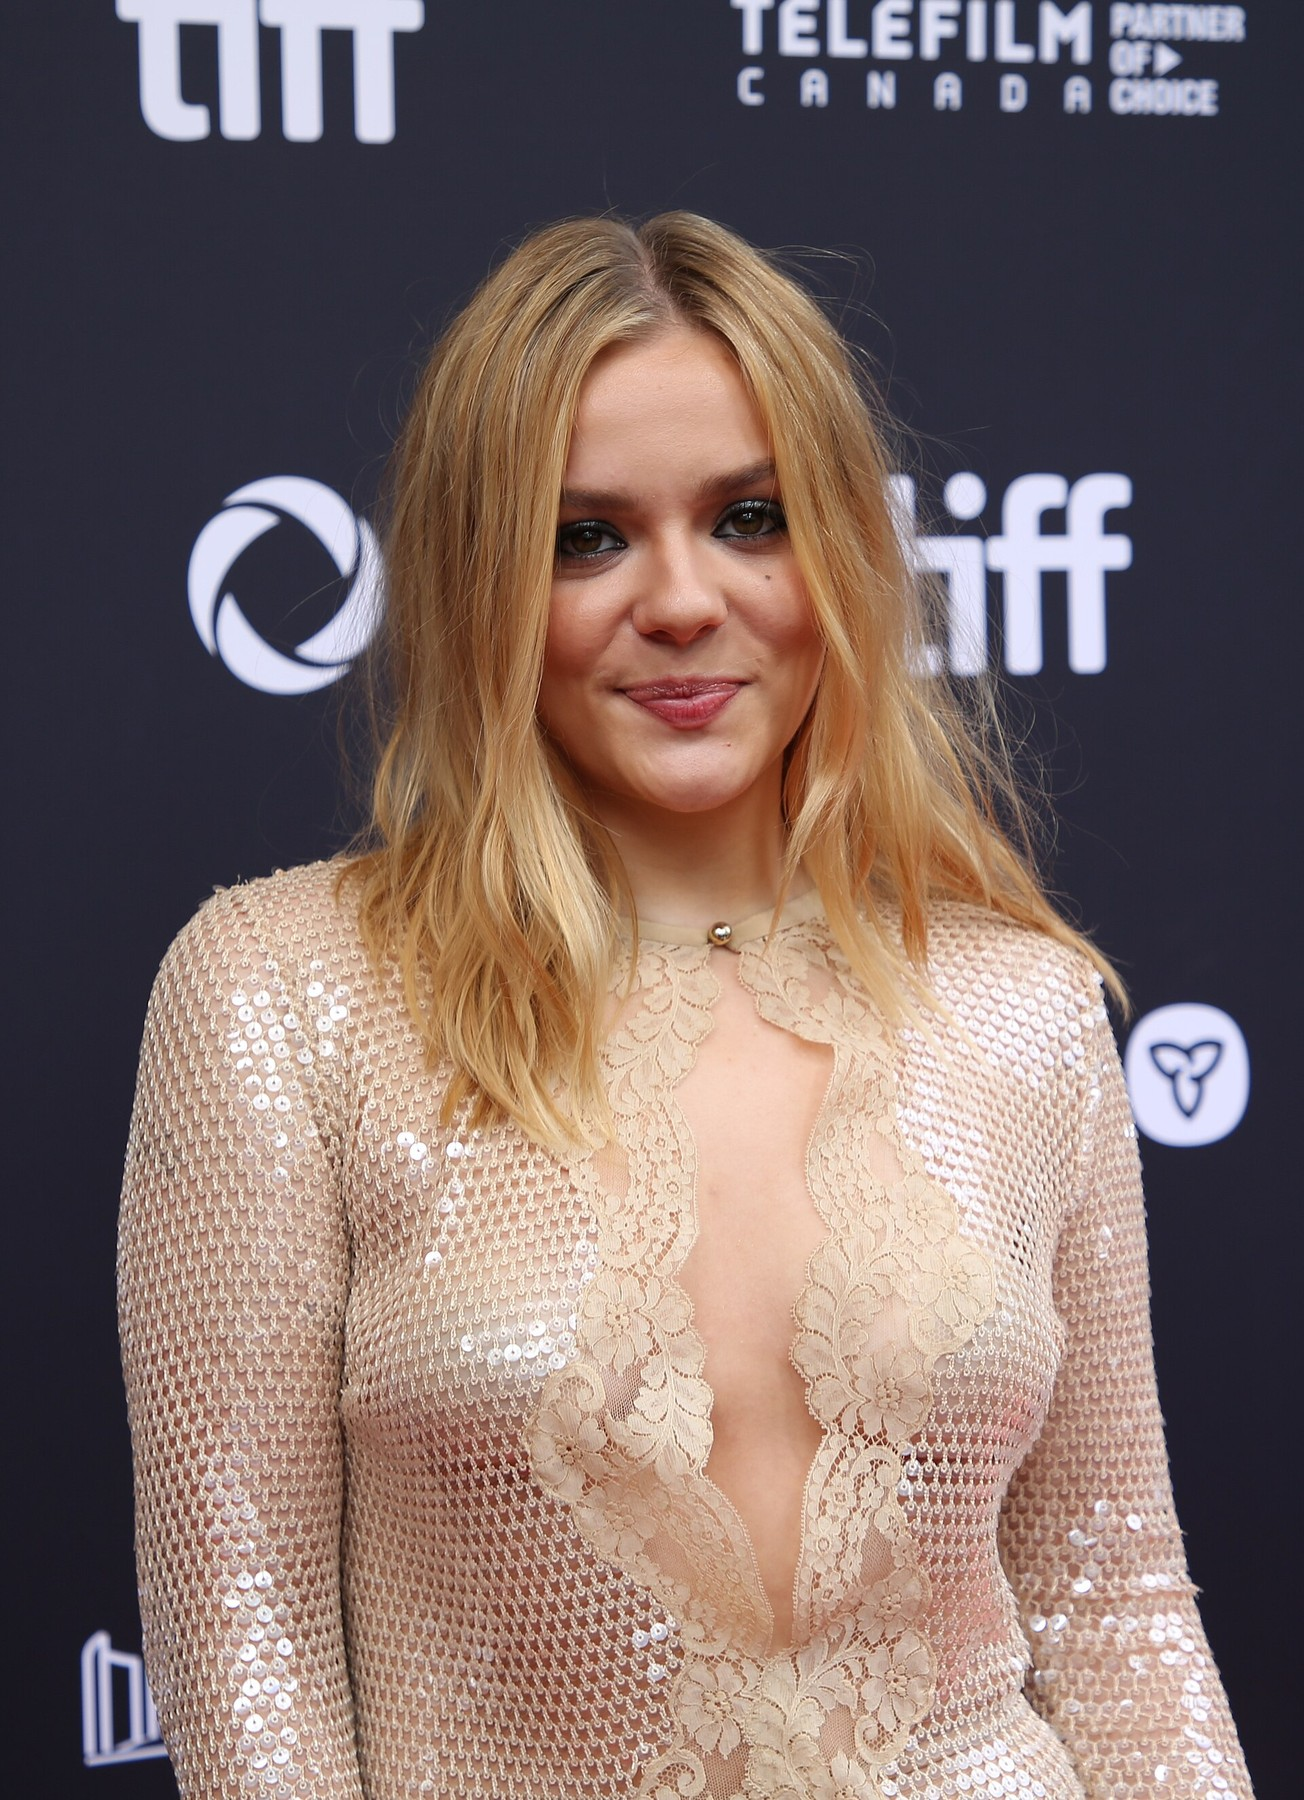
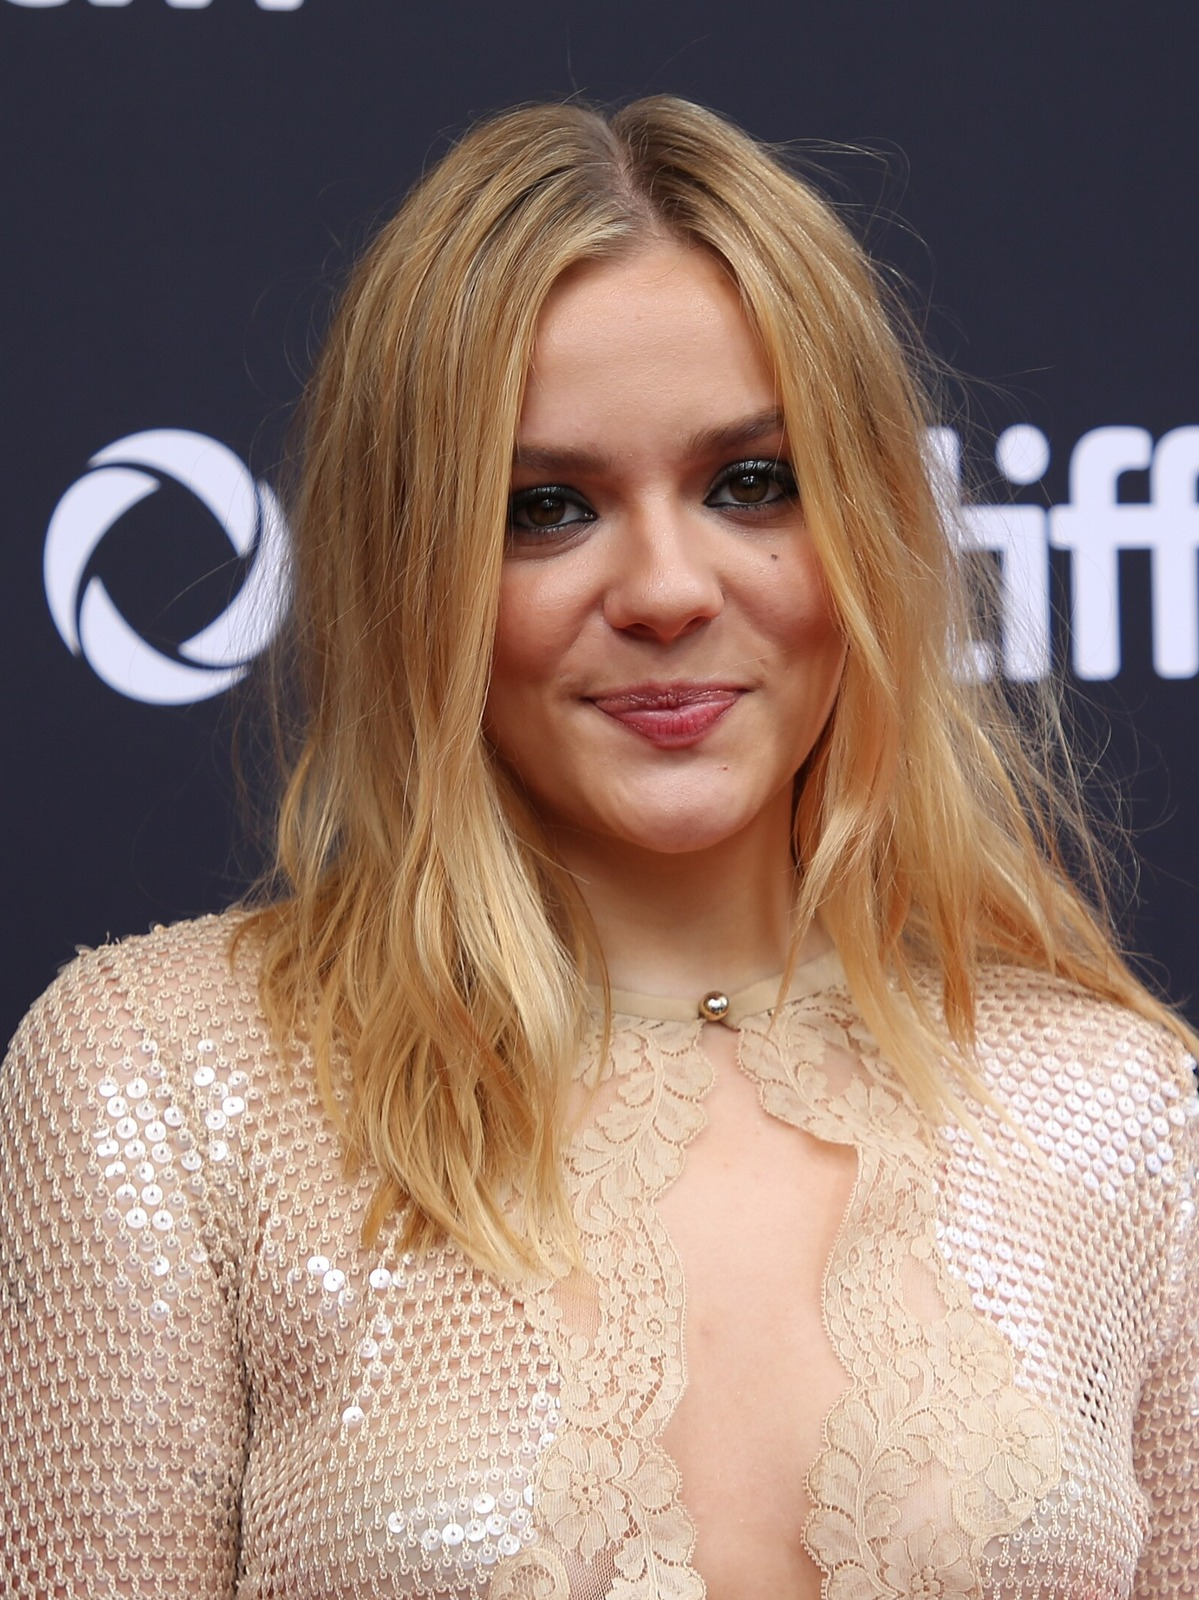
Affine le cadrage People et remplace Ana / Maisy / Rosamund
Ajuste object-position des heroes et cartes, portrait Ana TIFF 2024,
Maisy TIFF croppedv2, et Rosamund Berlinale net pour la grille People.

diff --git a/template/css/site.css b/template/css/site.css
@@ -323,7 +323,7 @@ body.nav-open .site-menu { opacity: 1; pointer-events: auto; }
   width: 100%;
   height: 100%;
   object-fit: cover;
-  object-position: center 20%;
+  object-position: center 28%;
   transition: transform 0.9s var(--ease);
 }
 .card:hover .card__media img { transform: scale(1.06); }
@@ -553,7 +553,7 @@ body.nav-open .site-menu { opacity: 1; pointer-events: auto; }
 .contact-links a { width: fit-content; border-bottom: 1px solid var(--line); padding-bottom: 0.15rem; }
 
 .person-hero {
-  min-height: 75svh;
+  min-height: 70svh;
   position: relative;
   display: grid;
   align-items: end;
@@ -563,8 +563,8 @@ body.nav-open .site-menu { opacity: 1; pointer-events: auto; }
   width: 100%;
   height: 100%;
   object-fit: cover;
-  object-position: center 18%;
-  filter: brightness(0.65);
+  object-position: center 28%;
+  filter: brightness(0.82);
 }
 .person-hero__media::after {
   content: "";
